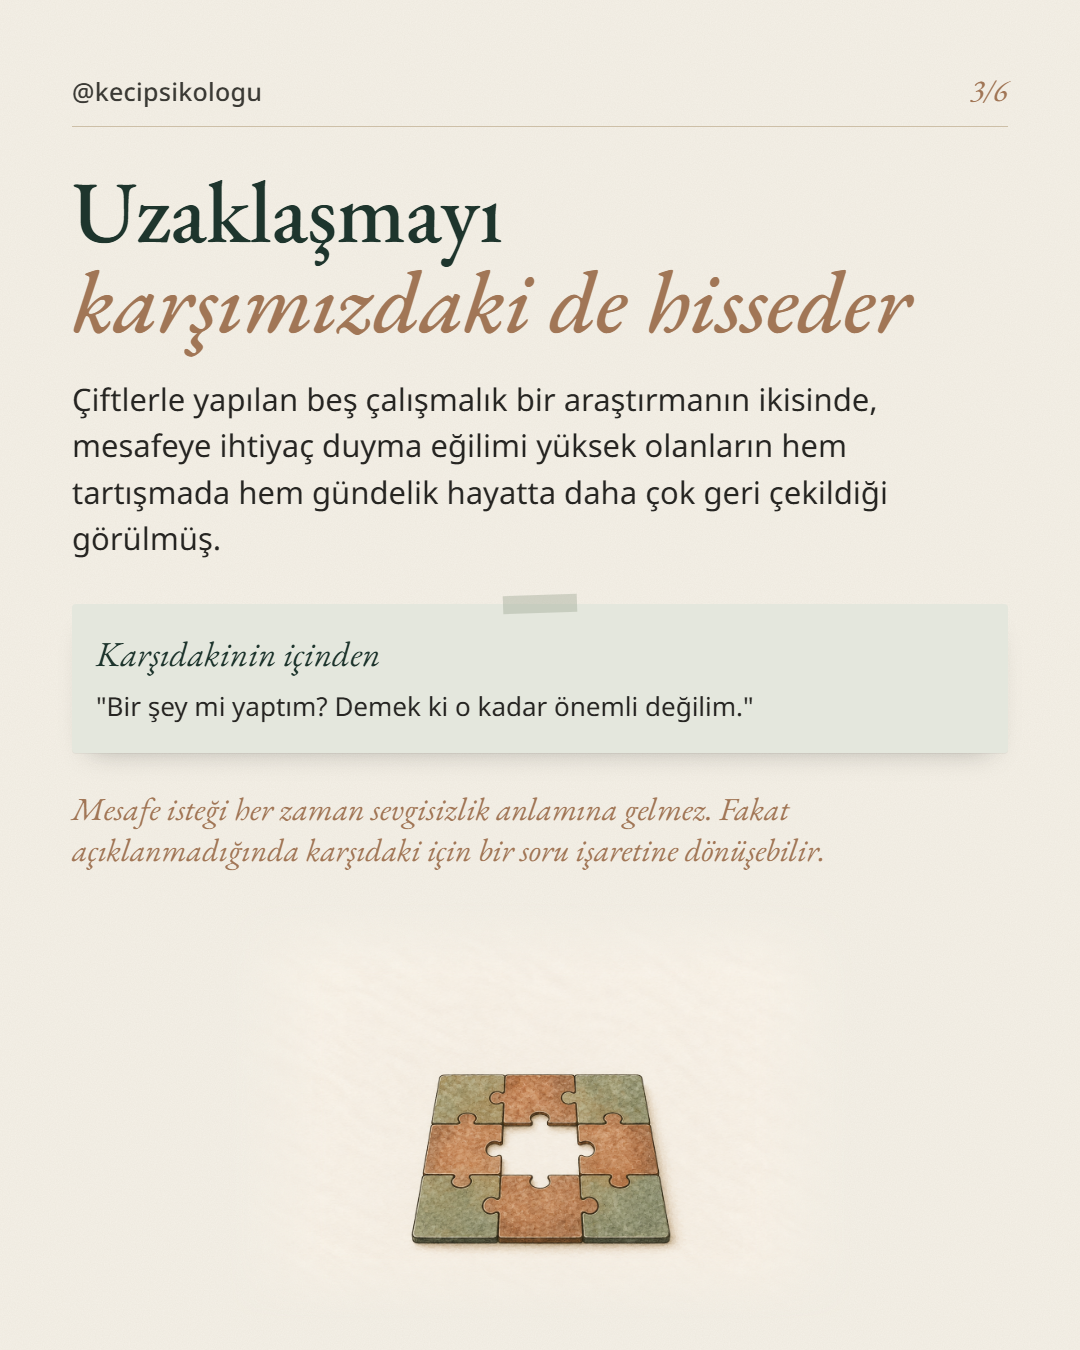
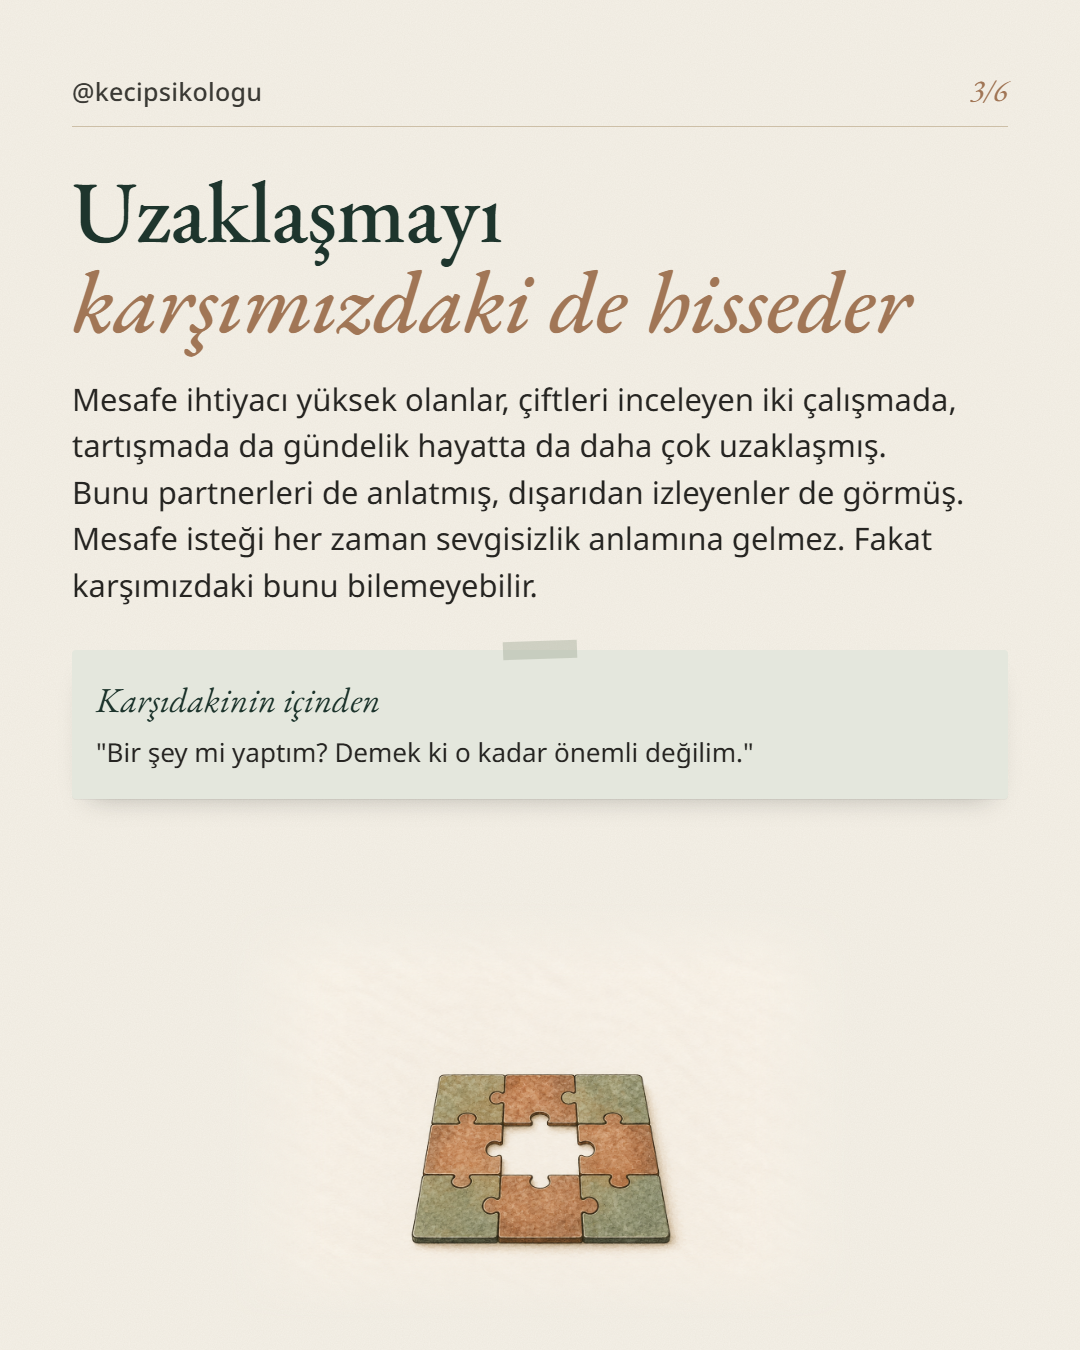
fix(posts): 25 Oct voice rewrite, research sentences in operator voice
Claude-Session: https://claude.ai/code/session_01YRjYDNXAqdazCHQBaajULc

Changed region(s): [[0.0611, 0.28, 0.8861, 0.56], [0.0611, 0.5911, 0.7639, 0.6533]]

diff --git a/posts/2026-10-25-yakinlik-uzaklasma/caption.md b/posts/2026-10-25-yakinlik-uzaklasma/caption.md
@@ -4,13 +4,12 @@ Tartışmanın ortasında susan, ısınan ortamdan çekiliyor olabilir. Her şey
 
 Bu istek bir dahaki sefere belirdiğinde, ondan hemen önce ne olduğuna bakmak işe yarayabilir. Çünkü neyin fazla geldiğini bilen biri, mesafeyi de söze dökebilir.
 
-Tartışırken gözlenen çiftlerle yapılan bir çalışmada, mesafeye ihtiyaç duyma eğilimi yüksek kişiler, partnerleri kararlarına saygı gösterip değer verdiğini hissettirdiğinde daha az öfkelenmiş, daha az geri çekilmiş.
+Uzaklaşan birinin üstüne gitmek içimizden gelebilir. Fakat kararına saygı göstermek, ona değer verdiğimizi hissettirmek ikimize de daha iyi gelebilir. Mesafe ihtiyacı yüksek kişiler, tartışan çiftlerin kayda alındığı bir çalışmada, partnerleri böyle davrandığı anlarda daha az öfkelenmiş, daha az geri çekilmiş. Bu dengeyi iki kişi birlikte kurar, yaklaşmak isteyenin de bir ihtiyacı ve sınırı vardır.
 
 Geçmişte yaşanan zor olaylardan sonra yakınlıktan uzak durmak hayatı belirgin biçimde kısıtlıyorsa bir uzmanla konuşmak iyi olabilir. Bu dengeye birlikte bakmak isterseniz, psikolojik danışmanlık hizmeti için profildeki bağlantıdan ulaşabilirsiniz. Ön görüşme formu onourimpram.com adresinde.
 
 Kaynaklar:
 Personality and Social Psychology Bulletin (2026): https://doi.org/10.1177/01461672251333165
 Journal of Personality and Social Psychology (2013): https://doi.org/10.1037/a0031798
-Journal of Personality and Social Psychology (2010): https://doi.org/10.1037/a0016961
 
 #psikoloji #ilişkiler #bağlanma #yakınlık #psikoeğitim
